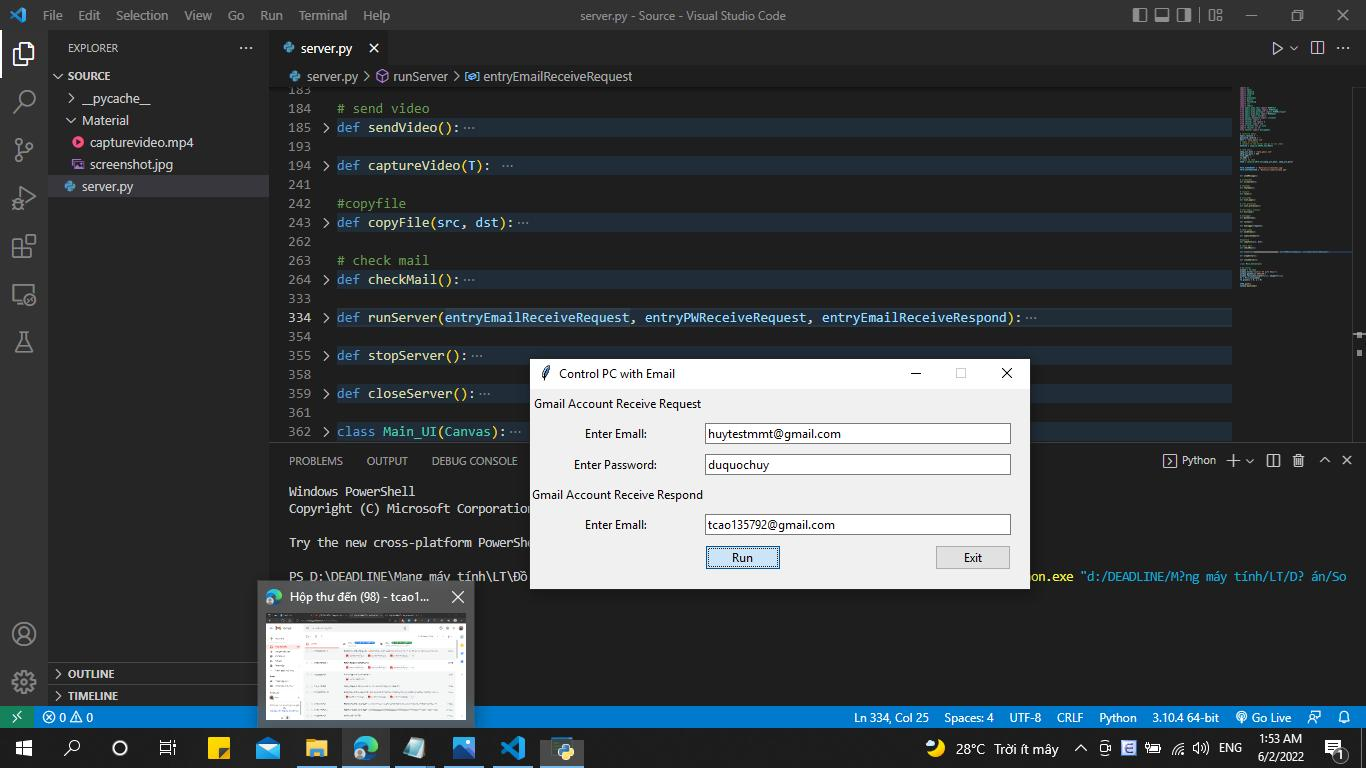
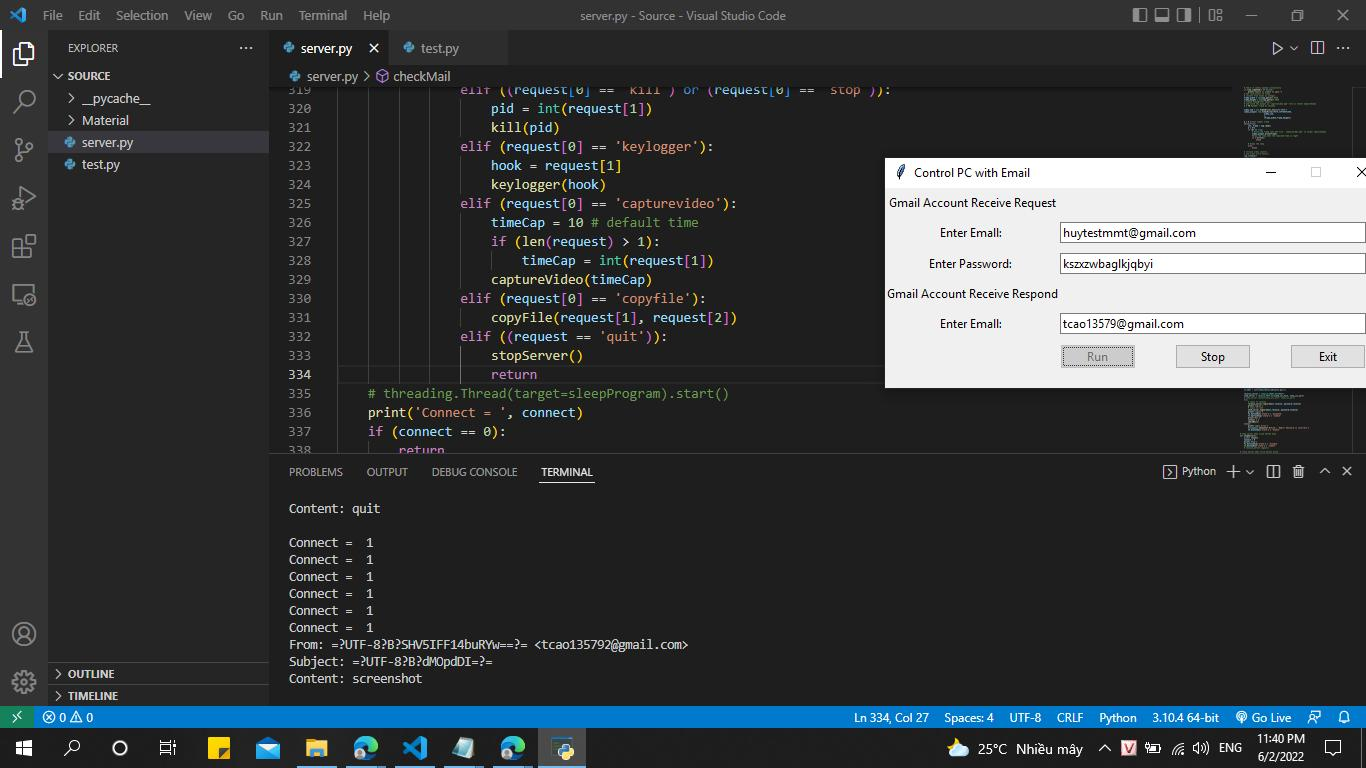
update

diff --git a/Source/server.py b/Source/server.py
@@ -8,6 +8,7 @@ import psutil
 import threading
 import cv2
 import shutil
+import keyboard
 from email.mime.text import MIMEText
 from email.mime.image import MIMEImage
 from email.mime.multipart import MIMEMultipart
@@ -16,8 +17,6 @@ from email import encoders
 from pynput.keyboard import Listener 
 from tkinter import *
 from tkinter.ttk import *
-# from tkinter import ttk
-# import tkinter.ttk as exTk
 import tkinter as tk
 from tkinter import messagebox
 
@@ -25,9 +24,9 @@ from tkinter import messagebox
 email_receive = ''
 password_receive = ''
 HOST = 'imap.gmail.com'
+
 # login to receive 
-# connect to the server and go to its inbox
-RECEIVE = imaplib.IMAP4_SSL(HOST)
+receive_server = imaplib.IMAP4_SSL(HOST)
 
 # send email
 smtp_ssl_host = 'smtp.gmail.com'
@@ -35,7 +34,7 @@ smtp_ssl_port = 465
 from_addr = ''
 to_addr = ''
 # login to send 
-SEND = smtplib.SMTP_SSL(smtp_ssl_host, smtp_ssl_port)
+send_server = smtplib.SMTP_SSL(smtp_ssl_host, smtp_ssl_port)
 
 
 PATH_SCREENSHOT = 'Material/screenshot.jpg'
@@ -43,7 +42,8 @@ PATH_CAPTUREVIDEO = 'Material/capturevideo.mp4'
 
 
 def sendMessage():
-    SEND.sendmail(from_addr, to_addr, message.as_string())
+    # send_server.ehlo()
+    send_server.sendmail(from_addr, to_addr, message.as_string())
     print('Done send\n\n')
 
 # screenshot
@@ -260,103 +260,123 @@ def copyFile(src, dst):
     message.attach(MIMEText(text))
     sendMessage()
 
-# check mail 
-def checkMail():
-    global message
-    try:
-        while (True):
-            RECEIVE.select('inbox')
-            status, data = RECEIVE.search(None, 'UNSEEN')
-            mail_ids = []
-            for block in data:
-                mail_ids += block.split()
+def sleepProgram():
+    print('sleep')
+    time.sleep(5)
+    if (keyboard.is_pressed('Esc')):
+        print(2)
 
-            for i in mail_ids:
-                status, data = RECEIVE.fetch(i, '(RFC822)')
+# if connect = 1, check mail every 5s
+def checkMail(first = True):
+    global message, connect
+    # try:
+    receive_server.select('inbox')
+    status, data = receive_server.search(None, 'UNSEEN')
+    mail_ids = []
+    for block in data:
+        mail_ids += block.split()
 
-                for response_part in data:
-                    if isinstance(response_part, tuple):
-                        msg = email.message_from_bytes(response_part[1])
+    for i in mail_ids:
+        status, data = receive_server.fetch(i, '(RFC822)')
 
-                        mail_from = msg['from']
-                        mail_subject = msg['subject']
+        for response_part in data:
+            if isinstance(response_part, tuple):
+                msg = email.message_from_bytes(response_part[1])
 
-                        if msg.is_multipart():
-                            mail_content = ''
+                mail_from = msg['from']
+                mail_subject = msg['subject']
 
-                            for part in msg.get_payload():
-                                if part.get_content_type() == 'text/plain':
-                                    mail_content += part.get_payload()
-                        else:
-                            mail_content = msg.get_payload()
-                        print(f'From: {mail_from}')
-                        print(f'Subject: {mail_subject}')
-                        print(f'Content: {mail_content}')
-                        request = mail_content.rstrip().split()
+                if msg.is_multipart():
+                    mail_content = ''
 
-                        # set infor send
-                        message = MIMEMultipart()
-                        message['From'] = from_addr
-                        message['To'] = ', '.join(to_addr)
-                        message['Subject'] = 'Subject'
+                    for part in msg.get_payload():
+                        if part.get_content_type() == 'text/plain':
+                            mail_content += part.get_payload()
+                else:
+                    mail_content = msg.get_payload()
+                print(f'From: {mail_from}')
+                print(f'Subject: {mail_subject}')
+                print(f'Content: {mail_content}')
+                request = mail_content.rstrip().split()
 
-                        # check request
-                        if (request[0] == 'screenshot'):
-                            screenshot()
-                        elif (request[0] == 'shutdown'):
-                            shutdown()
-                        elif (request[0] == 'reset'):
-                            reset()
-                        elif (request[0] == 'list' and request[1] == 'apps'):
-                            list_apps()
-                        elif (request[0] == 'list' and request[1] == 'processes'):
-                            list_processes()
-                        elif ((request[0] == 'kill') or (request[0] == 'stop')):
-                            pid = int(request[1])
-                            kill(pid)
-                        elif (request[0] == 'keylogger'):
-                            hook = request[1]
-                            keylogger(hook)
-                        elif (request[0] == 'capturevideo'):
-                            timeCap = 10 # default time
-                            if (len(request) > 1):
-                                timeCap = int(request[1])
-                            captureVideo(timeCap)
-                        elif (request[0] == 'copyfile'):
-                            copyFile(request[1], request[2])
-                        elif ((request == 'quit')):
-                            return
-            time.sleep(5)
-    except:
-        print('stop')
+                # set infor send
+                message = MIMEMultipart()
+                message['From'] = from_addr
+                message['To'] = ', '.join(to_addr)
+                message['Subject'] = 'Subject'
+
+                # check request
+                if (request[0] == 'screenshot'):
+                    screenshot()
+                elif (request[0] == 'shutdown'):
+                    shutdown()
+                elif (request[0] == 'reset'):
+                    reset()
+                elif (request[0] == 'list' and request[1] == 'apps'):
+                    list_apps()
+                elif (request[0] == 'list' and request[1] == 'processes'):
+                    list_processes()
+                elif ((request[0] == 'kill') or (request[0] == 'stop')):
+                    pid = int(request[1])
+                    kill(pid)
+                elif (request[0] == 'keylogger'):
+                    hook = request[1]
+                    keylogger(hook)
+                elif (request[0] == 'capturevideo'):
+                    timeCap = 10 # default time
+                    if (len(request) > 1):
+                        timeCap = int(request[1])
+                    captureVideo(timeCap)
+                elif (request[0] == 'copyfile'):
+                    copyFile(request[1], request[2])
+                elif ((request[0] == 'quit')):
+                    stopServer()
+                    return
+    # threading.Thread(target=sleepProgram).start()
+    print('Connect = ', connect)
+    if (connect == 0):
         return
+    window.after(5000, checkMail, True)
+    # except:
+    #     print('Error Receive or Send')
+    #     return
 
 # run server when click button Run
 def runServer(entryEmailReceiveRequest, entryPWReceiveRequest, entryEmailReceiveRespond):
-    global from_addr, to_addr, email_receive, password_receive
-    # SEND = smtplib.SMTP_SSL(smtp_ssl_host, smtp_ssl_port)
+    global from_addr, to_addr, email_receive, password_receive, connect, receive_server, send_server
     email_receive = entryEmailReceiveRequest.get()
     password_receive = entryPWReceiveRequest.get()
     from_addr = email_receive
     to_addr = [entryEmailReceiveRespond.get()]
-    SEND.connect(smtp_ssl_host, smtp_ssl_port)
+
+    receive_server = imaplib.IMAP4_SSL(HOST)
+    send_server = smtplib.SMTP_SSL(smtp_ssl_host, smtp_ssl_port)
+    # send_server.connect(smtp_ssl_host, smtp_ssl_port)
     try:
         # login to receive
-        RECEIVE.login(email_receive, password_receive)
+        receive_server.login(email_receive, password_receive)
+        print('login1')
         # login to send
-        SEND.login(email_receive, password_receive)
+        send_server.login(email_receive, password_receive)
+        print('login2')
+        f1.buttonRun['state'] = 'disabled'
+        f1.buttonStop['state'] = 'enable'
+        print('Run')
+        connect = 1
+        checkMail()
     except:
         print('login error')
         messagebox.showinfo('Notice', 'Email/ Password is incorrect')
-        return
-    # check mail to receive, implement, send
-    print(1)
-    checkMail()
+        f1.buttonRun['state'] = 'enable'
 
 # stop server when click button Stop
 def stopServer():
-    print('stop')
-    return
+    global connect
+    connect = 0
+    print('Stop')
+    f1.buttonStop['state'] = 'disable'
+    f1.buttonRun['state'] = 'enable'
+    # receive_server.logout()
 
 # close server when click button Close
 def closeServer():
@@ -389,7 +409,7 @@ class Main_UI(Canvas):
                                 command=lambda: runServer(self.entryEmailReceiveRequest,
                                                           self.entryPWReceiveRequest,
                                                           self.entryEmailReceiveRespond))
-        #self.buttonStop = Button(self, text = 'Stop', command = stopServer)
+        self.buttonStop = Button(self, text = 'Stop', command = stopServer, state = 'disable')
         self.buttonExit = Button(self, text = 'Exit', command = closeServer)
 
         self.labelGmailReceiveRequest.grid(row = 0, column = 0, pady=5)
@@ -401,7 +421,7 @@ class Main_UI(Canvas):
         self.labelEmailReceiveRespond.grid(row = 4, column = 0, pady=5)
         self.entryEmailReceiveRespond.grid(row = 4, column = 1, pady=5)
         self.buttonRun.grid(row = 5, column = 1, pady=5, sticky = 'w')
-        #self.buttonStop.grid(row = 5, column = 1, pady=5)
+        self.buttonStop.grid(row = 5, column = 1, pady=5)
         self.buttonExit.grid(row = 5, column = 1, sticky = 'e')
 
 # UI server
@@ -411,7 +431,8 @@ window.geometry('500x200')
 window.resizable(width=False, height=False)
 f1 = Main_UI(window)
 f1.place(x = 0, y = 0)
-
+# if (keyboard.is_pressed('Esc')):
+#     print(2)
 # close program
-SEND.quit()
+send_server.quit()
 window.mainloop()
